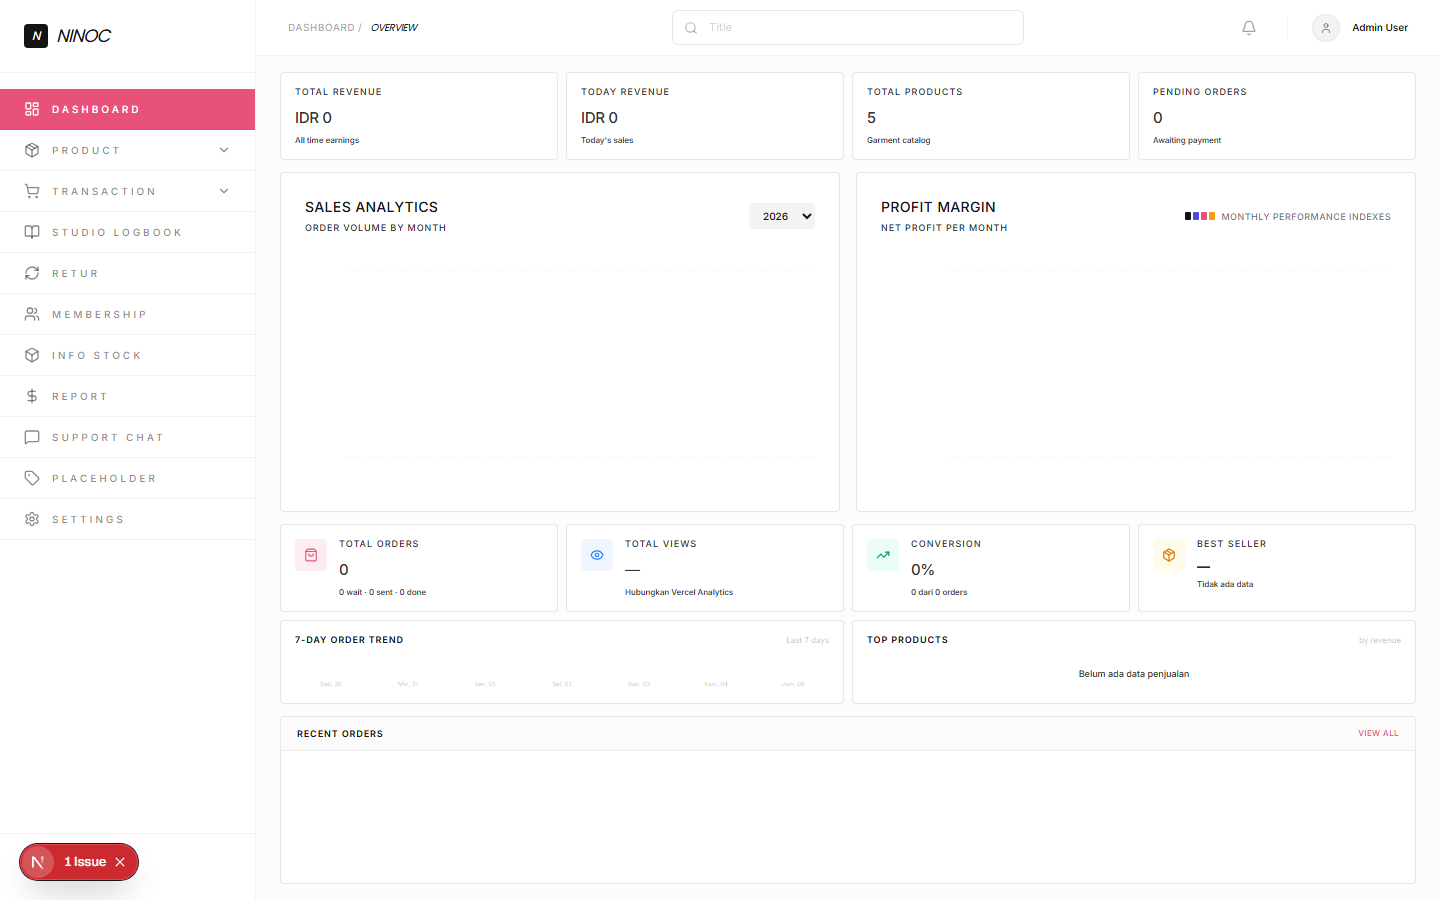
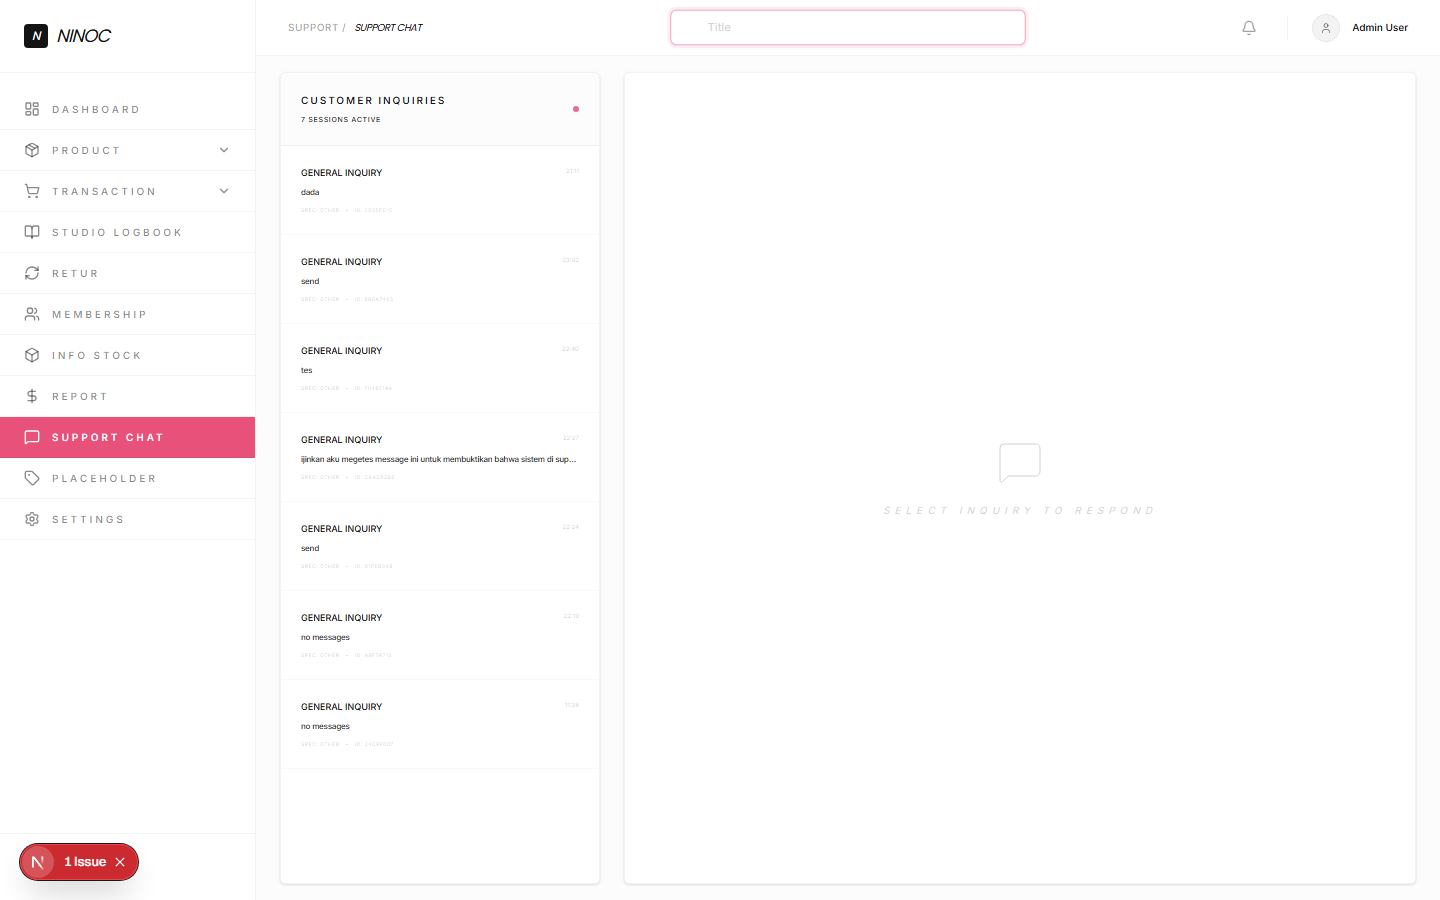
UI: Restore natural layout flow, eliminate negative space, reveal global footer

diff --git a/src/app/about/page.tsx b/src/app/about/page.tsx
@@ -64,14 +64,14 @@ export default function About() {
   const t = content[lang];
 
   return (
-    <div className="h-screen overflow-hidden bg-white text-ink font-medium selection:bg-ink selection:text-white flex flex-col pt-20 md:pt-28 pb-4 md:pb-8">
-      <main className="flex-1 max-w-7xl mx-auto w-full px-4 md:px-8 lg:px-12 flex flex-col min-h-0">
+    <div className="w-full bg-white text-ink font-medium selection:bg-ink selection:text-white pt-24 md:pt-32 pb-16 md:pb-24">
+      <main className="max-w-7xl mx-auto w-full px-4 md:px-8 lg:px-12">
         
         {/* Title Block & Language Switcher */}
-        <div className="shrink-0 pb-4 md:pb-6 relative flex flex-row items-start justify-between">
+        <div className="pb-6 md:pb-10 relative flex flex-row items-start justify-between">
           <div>
             <p className="text-[8px] md:text-[10px] font-bold uppercase tracking-[0.4em] text-rose mb-1.5 md:mb-3">{t.label}</p>
-            <h1 className="font-display font-medium italic text-3xl md:text-4xl lg:text-5xl tracking-tighter uppercase text-ink leading-[0.85]">{t.title}</h1>
+            <h1 className="font-display font-medium italic text-3xl md:text-5xl lg:text-6xl tracking-tighter uppercase text-ink leading-[0.85]">{t.title}</h1>
             <p className="text-[9px] md:text-[11px] font-medium text-ink/40 uppercase tracking-[0.25em] mt-2 md:mt-4">{t.tagline}</p>
           </div>
           
@@ -92,53 +92,53 @@ export default function About() {
           </div>
         </div>
 
-        {/* Content Grid - takes remaining space */}
-        <div className="flex-1 min-h-0 grid grid-cols-1 md:grid-cols-12 gap-8 md:gap-10 lg:gap-16 border-t border-ink/5 pt-4 md:pt-6">
+        {/* Content Grid */}
+        <div className="grid grid-cols-1 md:grid-cols-12 gap-8 md:gap-12 lg:gap-16 border-t border-ink/5 pt-6 md:pt-10">
 
-          {/* Left: Story & Philosophy - NO SCROLLBAR */}
-          <div className="md:col-span-6 lg:col-span-5 flex flex-col justify-between h-full">
-            <div className="space-y-1.5 md:space-y-2.5">
-              <h3 className="text-xs md:text-base font-display font-medium italic uppercase tracking-tight text-ink">{t.story.heading}</h3>
-              <p className="text-[10px] md:text-xs font-medium text-ink/60 leading-relaxed">{t.story.body}</p>
+          {/* Left: Story & Philosophy */}
+          <div className="md:col-span-6 lg:col-span-5 flex flex-col gap-8 md:gap-12">
+            <div className="space-y-2 md:space-y-4">
+              <h3 className="text-sm md:text-xl font-display font-medium italic uppercase tracking-tight text-ink">{t.story.heading}</h3>
+              <p className="text-xs md:text-sm lg:text-base font-medium text-ink/60 leading-relaxed md:leading-loose">{t.story.body}</p>
             </div>
-            <div className="space-y-1.5 md:space-y-2.5">
-              <h3 className="text-xs md:text-base font-display font-medium italic uppercase tracking-tight text-ink">{t.philosophy.heading}</h3>
-              <p className="text-[10px] md:text-xs font-medium text-ink/60 leading-relaxed">{t.philosophy.body}</p>
+            <div className="space-y-2 md:space-y-4">
+              <h3 className="text-sm md:text-xl font-display font-medium italic uppercase tracking-tight text-ink">{t.philosophy.heading}</h3>
+              <p className="text-xs md:text-sm lg:text-base font-medium text-ink/60 leading-relaxed md:leading-loose">{t.philosophy.body}</p>
             </div>
-            <div className="space-y-1.5 md:space-y-2.5">
-              <h3 className="text-xs md:text-base font-display font-medium italic uppercase tracking-tight text-ink">{t.mission.heading}</h3>
-              <p className="text-[10px] md:text-xs font-medium text-ink/60 leading-relaxed">{t.mission.body}</p>
+            <div className="space-y-2 md:space-y-4">
+              <h3 className="text-sm md:text-xl font-display font-medium italic uppercase tracking-tight text-ink">{t.mission.heading}</h3>
+              <p className="text-xs md:text-sm lg:text-base font-medium text-ink/60 leading-relaxed md:leading-loose">{t.mission.body}</p>
             </div>
           </div>
 
           {/* Right: Visual + Stats */}
-          <div className="md:col-span-6 lg:col-span-7 flex flex-col justify-between h-full gap-3">
+          <div className="md:col-span-6 lg:col-span-7 flex flex-col gap-6 md:gap-8">
             {/* Image placeholder */}
-            <div className="flex-1 min-h-0 bg-ink/[0.02] rounded-xl lg:rounded-[20px] border border-ink/5 flex items-center justify-center transition-colors duration-500 hover:bg-ink/[0.04] w-full">
-              <span className="text-[9px] md:text-[10px] font-medium uppercase tracking-[0.2em] text-ink/30">{t.image}</span>
+            <div className="w-full h-48 md:h-64 lg:h-[280px] bg-ink/[0.02] rounded-xl lg:rounded-[24px] border border-ink/5 flex items-center justify-center transition-colors duration-500 hover:bg-ink/[0.04]">
+              <span className="text-[10px] md:text-xs font-medium uppercase tracking-[0.2em] text-ink/30">{t.image}</span>
             </div>
 
             {/* Quick Stats */}
-            <div className="shrink-0 grid grid-cols-3 gap-2 md:gap-3">
-              <div className="bg-white border border-ink/5 p-3 md:p-4 rounded-xl transition-all duration-300 hover:shadow-sm hover:border-ink/10 flex flex-col justify-center">
-                <p className="text-[6px] md:text-[7px] font-bold uppercase tracking-[0.2em] text-ink/40">{t.stats.est.label}</p>
-                <p className="text-xs md:text-lg font-display font-medium italic text-ink mt-1.5">{t.stats.est.value}</p>
+            <div className="grid grid-cols-3 gap-3 md:gap-4">
+              <div className="bg-white border border-ink/5 p-4 md:p-6 rounded-xl md:rounded-2xl transition-all duration-300 hover:shadow-sm hover:border-ink/10 flex flex-col justify-center">
+                <p className="text-[7px] md:text-[8px] font-bold uppercase tracking-[0.2em] text-ink/40">{t.stats.est.label}</p>
+                <p className="text-sm md:text-xl lg:text-2xl font-display font-medium italic text-ink mt-2 md:mt-3">{t.stats.est.value}</p>
               </div>
-              <div className="bg-white border border-ink/5 p-3 md:p-4 rounded-xl transition-all duration-300 hover:shadow-sm hover:border-ink/10 flex flex-col justify-center">
-                <p className="text-[6px] md:text-[7px] font-bold uppercase tracking-[0.2em] text-ink/40">{t.stats.location.label}</p>
-                <p className="text-xs md:text-lg font-display font-medium italic text-ink mt-1.5">{t.stats.location.value}</p>
+              <div className="bg-white border border-ink/5 p-4 md:p-6 rounded-xl md:rounded-2xl transition-all duration-300 hover:shadow-sm hover:border-ink/10 flex flex-col justify-center">
+                <p className="text-[7px] md:text-[8px] font-bold uppercase tracking-[0.2em] text-ink/40">{t.stats.location.label}</p>
+                <p className="text-sm md:text-xl lg:text-2xl font-display font-medium italic text-ink mt-2 md:mt-3">{t.stats.location.value}</p>
               </div>
-              <div className="bg-white border border-ink/5 p-3 md:p-4 rounded-xl transition-all duration-300 hover:shadow-sm hover:border-ink/10 flex flex-col justify-center">
-                <p className="text-[6px] md:text-[7px] font-bold uppercase tracking-[0.2em] text-ink/40">{t.stats.contact.label}</p>
-                <p className="text-[7px] md:text-[10px] font-display font-medium italic text-rose mt-1.5 break-all">{t.stats.contact.value}</p>
+              <div className="bg-white border border-ink/5 p-4 md:p-6 rounded-xl md:rounded-2xl transition-all duration-300 hover:shadow-sm hover:border-ink/10 flex flex-col justify-center">
+                <p className="text-[7px] md:text-[8px] font-bold uppercase tracking-[0.2em] text-ink/40">{t.stats.contact.label}</p>
+                <p className="text-[8px] md:text-[10px] lg:text-xs font-display font-medium italic text-rose mt-2 md:mt-3 break-all">{t.stats.contact.value}</p>
               </div>
             </div>
 
             {/* Tagline */}
-            <div className="shrink-0 bg-ink p-4 md:p-6 lg:p-7 rounded-xl lg:rounded-[20px] flex flex-col justify-center relative overflow-hidden group">
+            <div className="bg-ink p-6 md:p-8 lg:p-10 rounded-xl lg:rounded-[24px] flex flex-col justify-center relative overflow-hidden group">
               <div className="absolute inset-0 bg-gradient-to-br from-white/10 to-transparent opacity-0 group-hover:opacity-100 transition-opacity duration-700 ease-out"></div>
-              <p className="text-[7px] md:text-[8px] font-bold uppercase leading-normal tracking-[0.3em] text-white/50 mb-1 md:mb-1.5 relative z-10">{t.verified.label}</p>
-              <p className="text-[10px] md:text-xs lg:text-sm font-medium uppercase leading-relaxed tracking-wider text-white max-w-lg relative z-10">{t.verified.body}</p>
+              <p className="text-[8px] md:text-[9px] font-bold uppercase leading-normal tracking-[0.3em] text-white/50 mb-2 md:mb-3 relative z-10">{t.verified.label}</p>
+              <p className="text-[10px] md:text-sm lg:text-base font-medium uppercase leading-relaxed tracking-wider text-white max-w-lg relative z-10">{t.verified.body}</p>
             </div>
           </div>
         </div>

diff --git a/capture-screenshots.js b/capture-screenshots.js
@@ -1,6 +1,6 @@
 const { chromium } = require('playwright');
 
-async function takeScreenshot(url, filename, viewport = { width: 1440, height: 900 }) {
+async function takeScreenshot(url, filename, actions, waitFor, viewport = { width: 1440, height: 900 }) {
   const browser = await chromium.launch({ args: ['--no-sandbox'] });
   const page = await browser.newPage();
   await page.setViewportSize(viewport);
@@ -13,11 +13,33 @@ async function takeScreenshot(url, filename, viewport = { width: 1440, height: 9
     return;
   }
 
-  // Wait a bit for any animations/fonts
-  await page.waitForTimeout(2000);
+  // Run actions (array of {click, wait, scroll})
+  if (actions) {
+    for (const action of actions) {
+      if (action.click) {
+        console.log(`  Clicking: ${action.click}`);
+        await page.click(action.click);
+        await page.waitForTimeout(action.wait || 800);
+      }
+      if (action.scroll) {
+        await page.evaluate((sel) => {
+          const el = document.querySelector(sel);
+          if (el) el.scrollIntoView();
+        }, action.scroll);
+        await page.waitForTimeout(500);
+      }
+    }
+  }
 
+  if (waitFor) {
+    await page.waitForSelector(waitFor, { timeout: 10000 }).catch(() =>
+      console.log(`  Could not find: ${waitFor}`)
+    );
+  }
+
+  await page.waitForTimeout(1500);
   await page.screenshot({ path: filename, fullPage: false });
-  console.log(`Screenshot saved: ${filename}`);
+  console.log(`  Saved: ${filename}`);
 
   await browser.close();
 }
@@ -25,21 +47,45 @@ async function takeScreenshot(url, filename, viewport = { width: 1440, height: 9
 async function main() {
   console.log('Starting screenshot capture...\n');
 
-  // 1. Admin page - Placeholder tab
+  // 1. Admin - Placeholder tab (already confirmed good)
   console.log('--- 1. Admin / Placeholder Tab ---');
-  await takeScreenshot('http://localhost:3000/admin#placeholder', 'screenshot_admin_placeholder.png');
+  await takeScreenshot(
+    'http://localhost:3000/admin',
+    'screenshot_admin_placeholder.png',
+    [{ click: 'text=Placeholder', wait: 1200 }],
+    'text=PLACEHOLDER'
+  );
 
-  // 2. Admin page - Messages tab with Template button
+  // 2. Admin - Support Chat with Template button (need to select a session)
   console.log('\n--- 2. Admin / Support Chat with Template Button ---');
-  await takeScreenshot('http://localhost:3000/admin#messages', 'screenshot_admin_messages.png');
+  await takeScreenshot(
+    'http://localhost:3000/admin',
+    'screenshot_admin_messages.png',
+    [
+      { click: 'text=Support Chat', wait: 800 },
+      // Click first chat session to open chat area
+      { click: '.group >> nth=0', wait: 1200 },
+    ],
+    'text=Customer Inquiries'
+  );
 
   // 3. Customer /profile/returns
   console.log('\n--- 3. Customer Return Tracker ---');
-  await takeScreenshot('http://localhost:3000/profile/returns', 'screenshot_returns_page.png');
+  await takeScreenshot(
+    'http://localhost:3000/profile/returns',
+    'screenshot_returns_page.png',
+    null,
+    'text=Return Tracker'
+  );
 
-  // 4. Customer profile page with Return Tracker card
-  console.log('\n--- 4. Customer Profile with Return Tracker ---');
-  await takeScreenshot('http://localhost:3000/profile', 'screenshot_profile_card.png');
+  // 4. Customer profile page
+  console.log('\n--- 4. Customer Profile ---');
+  await takeScreenshot(
+    'http://localhost:3000/profile',
+    'screenshot_profile_card.png',
+    null,
+    'text=Return Tracker'
+  );
 
   console.log('\nAll screenshots captured!');
 }

diff --git a/find-users.js b/find-users.js
@@ -1,0 +1,23 @@
+const { chromium } = require('playwright');
+
+async function getSessionToken(email) {
+  // Use service role key to impersonate user via admin API
+  const response = await fetch('https://esiapizmdpylhotojfij.supabase.co/auth/v1/admin/users', {
+    headers: {
+      'Authorization': 'Bearer eyJhbGciOiJIUzI1NiIsInR5cCI6IklXVCJ9.eyJpc3MiOiJzdXBhYmFzZSIsInJlZiI6ImVzaWFwaXptZHB5bGhvdG9qZmlqIiwicm9sZSI6InNlcnZpY2Vfcm9sZSIsImlhdCI6MTc3ODEwNTM2NSwiZXhwIjoyMDkzNjgxMzY1fQ.h5xqrEfnLK0BGRHKgOUwy3MAshvpBuC8HjNI080Iuk4',
+      'apikey': 'eyJhbGciOiJIUzI1NiIsInR5cCI6IklXVCJ9.eyJpc3MiOiJzdXBhYmFzZSIsInJlZiI6ImVzaWFwaXptZHB5bGhvdG9qZmlqIiwicm9sZSI6InNlcnZpY2Vfcm9sZSIsImlhdCI6MTc3ODEwNTM2NSwiZXhwIjoyMDkzNjgxMzY1fQ.h5xqrEfnLK0BGRHKgOUwy3MAshvpBuC8HjNI080Iuk4',
+      'Content-Type': 'application/json'
+    }
+  });
+  const data = await response.json();
+  const users = data.users || [];
+  console.log(`Found ${users.length} users in auth.users`);
+  return users;
+}
+
+async function main() {
+  const users = await getSessionToken();
+  console.log('Users:', users.map(u => u.email));
+}
+
+main().catch(console.error);
